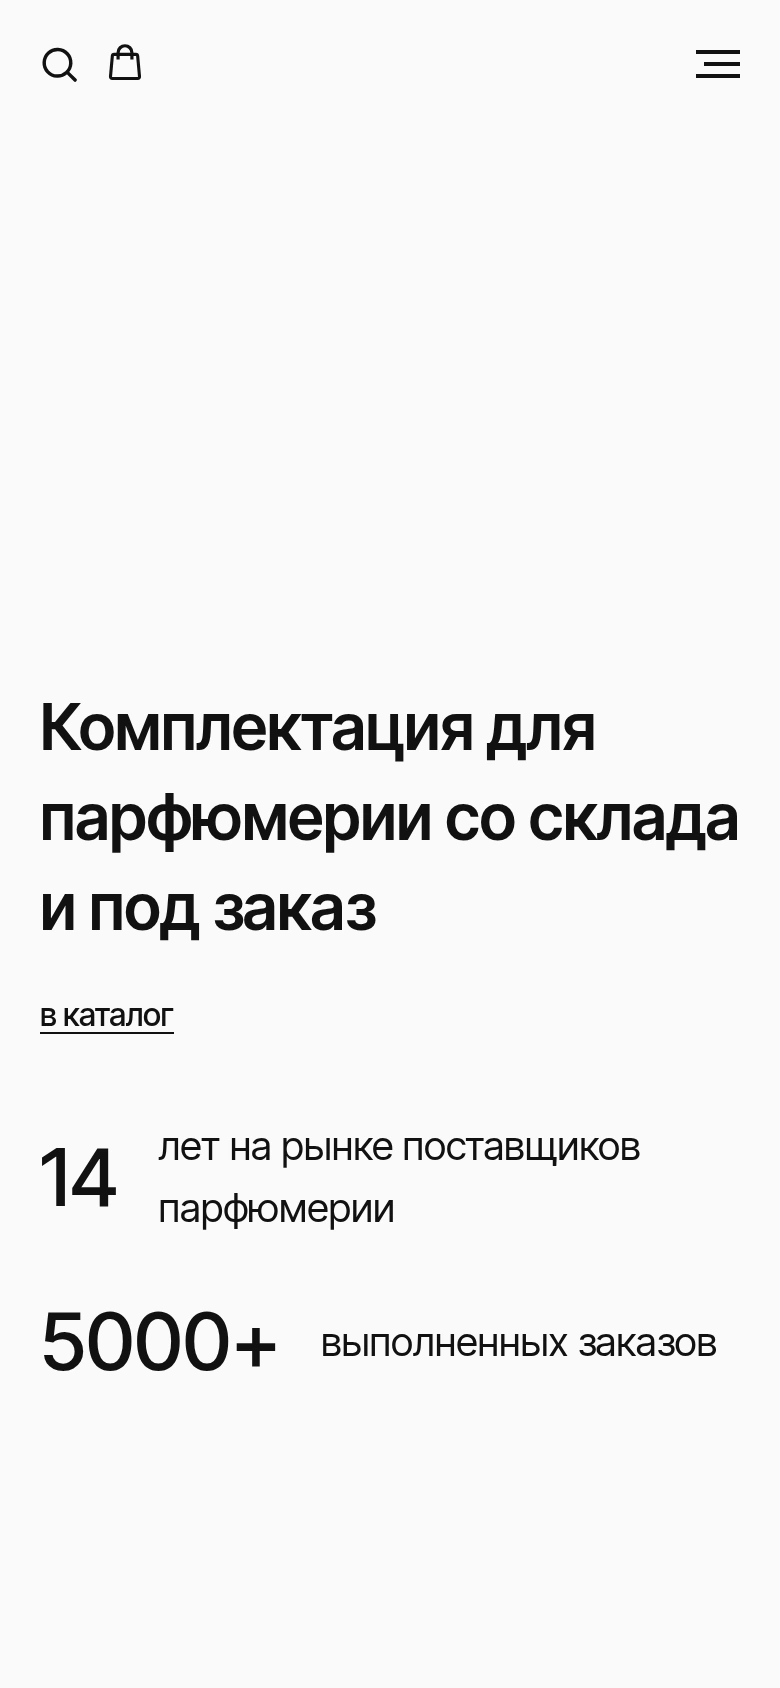
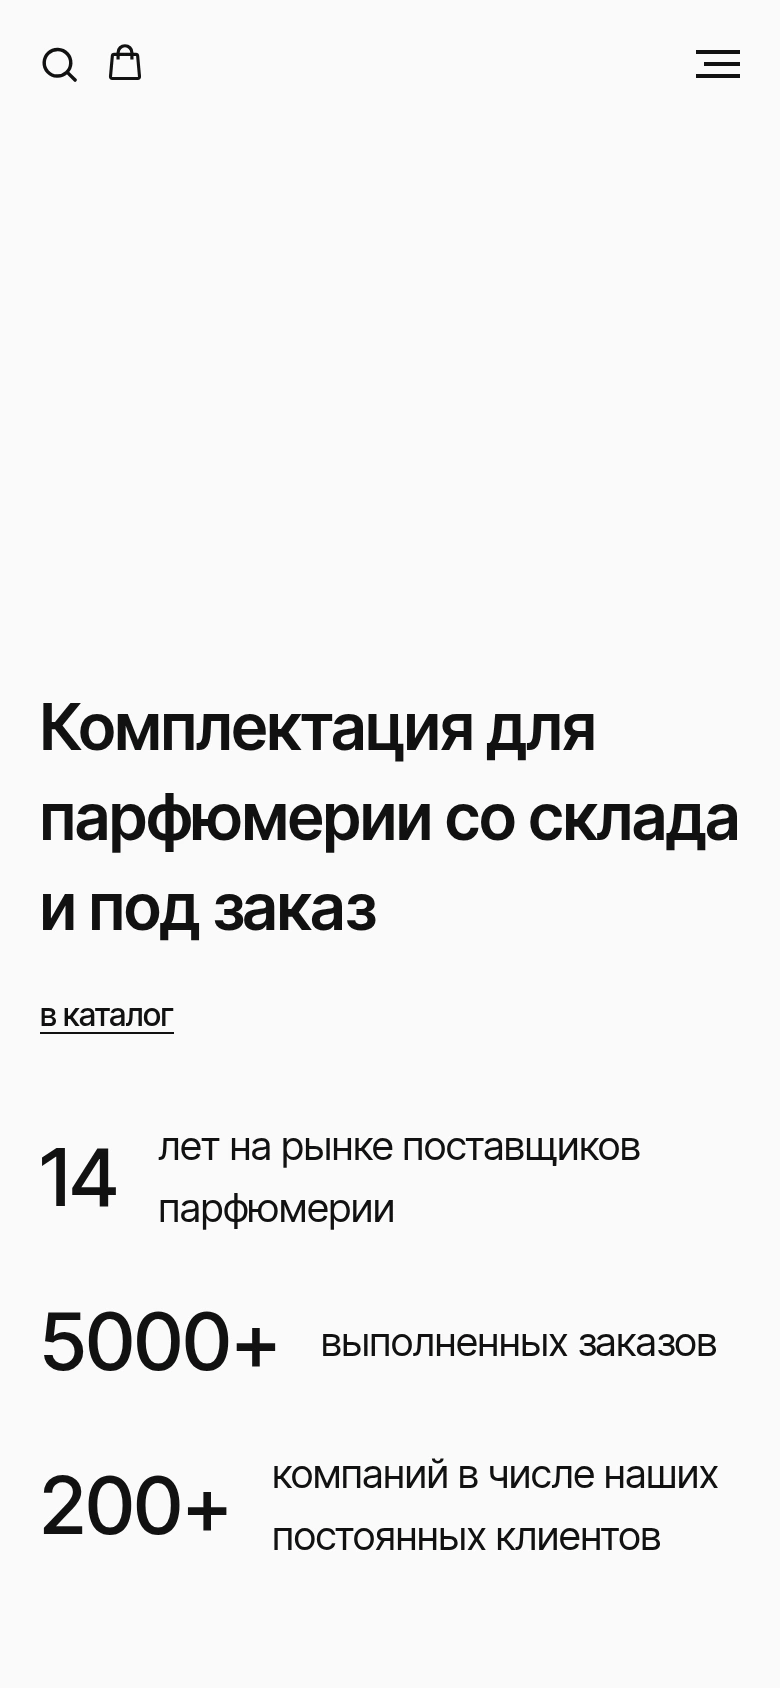
Refine project captions and fix COSMOSPRAY viewport screenshots

Changed region(s): [[0.3385, 0.8626, 0.9231, 0.9242], [0.0615, 0.8626, 0.2769, 0.9242]]

diff --git a/cosmospray.html b/cosmospray.html
@@ -21,7 +21,7 @@
       <section class="case-hero case-container" aria-labelledby="case-title">
         <div class="intro-layout">
           <div class="case-back reveal" data-reveal><a class="case-link case-link--back" href="./index.html#cases" aria-label="Вернуться к кейсам"><svg aria-hidden="true"><use href="#arrow-right" /></svg><span class="case-link-label" data-reveal-letters>Назад</span></a></div>
-          <div class="case-heading reveal" data-reveal><h1 id="case-title">ТПК КОСМОСПРЭЙ</h1><p class="case-subtitle" data-reveal-lines>Product Design / B2B / E-commerce / Design System</p></div>
+          <div class="case-heading reveal" data-reveal><h1 id="case-title">ТПК КОСМОСПРЭЙ</h1><p class="case-subtitle" data-reveal-lines>Product Design / B2B / E-commerce / Brand Identity</p></div>
           <div class="case-hero-media-slot"><figure class="case-hero-media reveal" data-reveal data-animated-media><div class="case-media" data-distort-frame><video data-distort data-distort-native-idle muted loop playsinline controls preload="metadata" poster="./cosmospray/CosmosprayMain-cursor-poster.webp" width="1600" height="1000" aria-label="Прокрутка главной страницы КОСМОСПРЭЙ"><source media="(max-width: 760px)" src="./cosmospray/CosmosprayMain-cursor-mobile-60.mp4?v=f4ab496c59" type="video/mp4" /><source src="./cosmospray/CosmosprayMain-cursor-60.mp4?v=311aed930d" type="video/mp4" /></video></div><button class="video-toggle" type="button" aria-label="Воспроизвести анимацию" data-pause-label="Приостановить анимацию" data-play-label="Воспроизвести анимацию" aria-pressed="true" hidden></button></figure></div>
         </div>
       </section>
@@ -58,7 +58,7 @@
         <section class="case-section" aria-labelledby="mobile-title">
           <div class="reveal" data-reveal><h2 id="mobile-title">Адаптивная версия</h2><p class="case-copy" data-reveal-lines>Адаптировала главную, каталог, карточку товара и контакты для мобильных устройств. Сохранила понятную иерархию и доступ к ключевым действиям: поиску комплектующих, выбору товара и связи с компанией.</p></div>
           <div class="cosmospray-mobile-grid">
-            <figure class="case-screen-item reveal" data-reveal><div class="case-media" data-distort-frame><img data-distort data-distort-detail src="./cosmospray/CosmosprayMobileHome.webp" alt="Главная страница" loading="lazy" decoding="async" width="780" height="1688" /></div><figcaption data-reveal-letters>Главная страница</figcaption></figure>
+            <figure class="case-screen-item reveal" data-reveal><div class="case-media" data-distort-frame><img data-distort data-distort-detail src="./cosmospray/CosmosprayMobileHome.webp?v=ad85eb3cb7" alt="Главная страница" loading="lazy" decoding="async" width="780" height="1688" /></div><figcaption data-reveal-letters>Главная страница</figcaption></figure>
             <figure class="case-screen-item reveal" data-reveal><div class="case-media" data-distort-frame><img data-distort data-distort-detail src="./cosmospray/CosmosprayMobileCatalog.webp" alt="Каталог" loading="lazy" decoding="async" width="780" height="1688" /></div><figcaption data-reveal-letters>Каталог</figcaption></figure>
             <figure class="case-screen-item reveal" data-reveal><div class="case-media" data-distort-frame><img data-distort data-distort-detail src="./cosmospray/CosmosprayMobileProduct.webp" alt="Карточка товара" loading="lazy" decoding="async" width="780" height="1688" /></div><figcaption data-reveal-letters>Карточка товара</figcaption></figure>
             <figure class="case-screen-item reveal" data-reveal><div class="case-media" data-distort-frame><img data-distort data-distort-detail src="./cosmospray/CosmosprayMobileContacts.webp" alt="Контакты" loading="lazy" decoding="async" width="780" height="1688" /></div><figcaption data-reveal-letters>Контакты</figcaption></figure>

diff --git a/cosmospray-en.html b/cosmospray-en.html
@@ -21,7 +21,7 @@
       <section class="case-hero case-container" aria-labelledby="case-title">
         <div class="intro-layout">
           <div class="case-back reveal" data-reveal><a class="case-link case-link--back" href="./en.html#cases" aria-label="Back to case studies"><svg aria-hidden="true"><use href="#arrow-right" /></svg><span class="case-link-label" data-reveal-letters>Back</span></a></div>
-          <div class="case-heading reveal" data-reveal><h1 id="case-title">TPK COSMOSPRAY</h1><p class="case-subtitle" data-reveal-lines>Product Design / B2B / E-commerce / Design System</p></div>
+          <div class="case-heading reveal" data-reveal><h1 id="case-title">TPK COSMOSPRAY</h1><p class="case-subtitle" data-reveal-lines>Product Design / B2B / E-commerce / Brand Identity</p></div>
           <div class="case-hero-media-slot"><figure class="case-hero-media reveal" data-reveal data-animated-media><div class="case-media" data-distort-frame><video data-distort data-distort-native-idle muted loop playsinline controls preload="metadata" poster="./cosmospray/CosmosprayMain-cursor-poster.webp" width="1600" height="1000" aria-label="Scrolling through the COSMOSPRAY homepage"><source media="(max-width: 760px)" src="./cosmospray/CosmosprayMain-cursor-mobile-60.mp4?v=f4ab496c59" type="video/mp4" /><source src="./cosmospray/CosmosprayMain-cursor-60.mp4?v=311aed930d" type="video/mp4" /></video></div><button class="video-toggle" type="button" aria-label="Play animation" data-pause-label="Pause animation" data-play-label="Play animation" aria-pressed="true" hidden></button></figure></div>
         </div>
       </section>
@@ -58,7 +58,7 @@
         <section class="case-section" aria-labelledby="mobile-title">
           <div class="reveal" data-reveal><h2 id="mobile-title">Responsive design</h2><p class="case-copy" data-reveal-lines>Adapted the homepage, catalog, product details and contacts for mobile devices. A clear hierarchy keeps the key actions accessible: finding components, choosing a product and contacting the company.</p></div>
           <div class="cosmospray-mobile-grid">
-            <figure class="case-screen-item reveal" data-reveal><div class="case-media" data-distort-frame><img data-distort data-distort-detail src="./cosmospray/CosmosprayMobileHome.webp" alt="Homepage" loading="lazy" decoding="async" width="780" height="1688" /></div><figcaption data-reveal-letters>Homepage</figcaption></figure>
+            <figure class="case-screen-item reveal" data-reveal><div class="case-media" data-distort-frame><img data-distort data-distort-detail src="./cosmospray/CosmosprayMobileHome.webp?v=ad85eb3cb7" alt="Homepage" loading="lazy" decoding="async" width="780" height="1688" /></div><figcaption data-reveal-letters>Homepage</figcaption></figure>
             <figure class="case-screen-item reveal" data-reveal><div class="case-media" data-distort-frame><img data-distort data-distort-detail src="./cosmospray/CosmosprayMobileCatalog.webp" alt="Catalog" loading="lazy" decoding="async" width="780" height="1688" /></div><figcaption data-reveal-letters>Catalog</figcaption></figure>
             <figure class="case-screen-item reveal" data-reveal><div class="case-media" data-distort-frame><img data-distort data-distort-detail src="./cosmospray/CosmosprayMobileProduct.webp" alt="Product details" loading="lazy" decoding="async" width="780" height="1688" /></div><figcaption data-reveal-letters>Product details</figcaption></figure>
             <figure class="case-screen-item reveal" data-reveal><div class="case-media" data-distort-frame><img data-distort data-distort-detail src="./cosmospray/CosmosprayMobileContacts.webp" alt="Contacts" loading="lazy" decoding="async" width="780" height="1688" /></div><figcaption data-reveal-letters>Contacts</figcaption></figure>

diff --git a/tests/portfolio.spec.js b/tests/portfolio.spec.js
@@ -147,7 +147,7 @@ test('cases reveal once and remain visible across scroll boundaries and resizing
     expect(await letter.evaluate(el => new DOMMatrix(getComputedStyle(el).transform).m42)).toBe(0);
     await page.mouse.wheel(0,1200);
     expect((await sampleMotion()).every(value => Math.abs(value)<.01)).toBe(true);
-    expect((await project.locator('.project-description .reveal-line').allTextContents()).join(' ')).toBe('Product Design / B2B / E-commerce / Design System');
+    expect((await project.locator('.project-description .reveal-line').allTextContents()).join(' ')).toBe('Product Design / B2B / E-commerce / Brand Identity');
   }
   await page.setViewportSize({width:1280,height:500});
   await page.evaluate(() => window.scrollTo({top:document.documentElement.scrollHeight,behavior:'instant'}));
@@ -216,7 +216,7 @@ test('text reveals move through masks and reflow without losing words', async ({
   // Image/font readiness and smooth scrolling can shift the reveal start.
   // Check completion separately from the captured intermediate movement.
   await expect.poll(() => headingLetter.evaluate(el => Math.abs(new DOMMatrix(getComputedStyle(el).transform).m42))).toBeLessThan(.01);
-  await expect.poll(() => page.locator('.project-description').first().locator('.reveal-line').allTextContents().then(lines => lines.join(' '))).toBe('Product Design / B2B / E-commerce / Design System');
+  await expect.poll(() => page.locator('.project-description').first().locator('.reveal-line').allTextContents().then(lines => lines.join(' '))).toBe('Product Design / B2B / E-commerce / Brand Identity');
   // Finish the cue's programmatic scroll before resizing and testing wheel input.
   await expect(page.locator('html')).not.toHaveClass(/lenis-scrolling/);
   await page.setViewportSize({ width: 840, height: 1000 });
@@ -264,7 +264,7 @@ test('long project captions wrap without clipping or duplicated subtitle lines o
   const page = await context.newPage();
   await page.goto('./');
   await page.getByRole('link', { name: 'Перейти к кейсам' }).tap();
-  const descriptions = ['Product Design / B2B / E-commerce / Design System', 'Product Design / B2B / Risk Analytics / Data-heavy UI', 'Product Design / B2C / E-commerce / Brand Identity', 'Illustration / Graphic Design / Print / Social Impact'];
+  const descriptions = ['Product Design / B2B / E-commerce / Brand Identity', 'Product Design / B2B / Dashboard', 'Product Design / B2C / E-commerce / Brand Identity', 'Illustration / Graphic Design / Social Impact'];
   const firstDescription = page.locator('.project-description').first();
   await expect.poll(() => firstDescription.locator('.reveal-line').allTextContents().then(lines => lines.join(' '))).toBe(descriptions[0]);
   expect(await firstDescription.evaluate(el =>

diff --git a/index.html b/index.html
@@ -71,14 +71,14 @@
             <a class="project-button" href="./cosmospray.html" data-project="1" aria-labelledby="project-1-title">
               <span class="project-cover"><img src="./cosmospray.png" alt="ТПК КОСМОСПРЭЙ" loading="lazy" decoding="async" /></span>
               <span class="project-title" id="project-1-title"><svg class="link-arrow" aria-hidden="true"><use href="#arrow-right" /></svg><span class="project-name">ТПК КОСМОСПРЭЙ</span></span>
-              <span class="project-description">Product Design / B2B / E-commerce / Design System</span>
+              <span class="project-description">Product Design / B2B / E-commerce / Brand Identity</span>
             </a>
           </article>
           <article class="project reveal" data-reveal id="delta">
             <a class="project-button" href="./delta.html" data-project="2" aria-labelledby="project-2-title">
               <span class="project-cover"><img src="./delta.png" alt="ДельтаБезопасность" loading="lazy" decoding="async" /></span>
               <span class="project-title" id="project-2-title"><svg class="link-arrow" aria-hidden="true"><use href="#arrow-right" /></svg><span class="project-name">ДельтаБезопасность</span></span>
-              <span class="project-description">Product Design / B2B / Risk Analytics / Data-heavy UI</span>
+              <span class="project-description">Product Design / B2B / Dashboard</span>
             </a>
           </article>
           <article class="project reveal" data-reveal id="solok">
@@ -92,7 +92,7 @@
             <a class="project-button" href="./shelter.html" data-project="4" aria-labelledby="project-4-title">
               <span class="project-cover"><img src="./dubovaya.png" alt="Приют для собак «Дубовая Роща»" loading="lazy" decoding="async" /></span>
               <span class="project-title" id="project-4-title"><svg class="link-arrow" aria-hidden="true"><use href="#arrow-right" /></svg><span class="project-name">Дубовая Роща</span></span>
-              <span class="project-description">Illustration / Graphic Design / Print / Social Impact</span>
+              <span class="project-description">Illustration / Graphic Design / Social Impact</span>
             </a>
           </article>
         </div>

diff --git a/en.html b/en.html
@@ -71,14 +71,14 @@
             <a class="project-button" href="./cosmospray-en.html" data-project="1" aria-labelledby="project-1-title">
               <span class="project-cover"><img src="./cosmospray.png" alt="TPK COSMOSPRAY" loading="lazy" decoding="async" /></span>
               <span class="project-title" id="project-1-title"><svg class="link-arrow" aria-hidden="true"><use href="#arrow-right" /></svg><span class="project-name">TPK COSMOSPRAY</span></span>
-              <span class="project-description">Product Design / B2B / E-commerce / Design System</span>
+              <span class="project-description">Product Design / B2B / E-commerce / Brand Identity</span>
             </a>
           </article>
           <article class="project reveal" data-reveal id="delta">
             <a class="project-button" href="./delta-en.html" data-project="2" aria-labelledby="project-2-title">
               <span class="project-cover"><img src="./delta.png" alt="Delta Security" loading="lazy" decoding="async" /></span>
               <span class="project-title" id="project-2-title"><svg class="link-arrow" aria-hidden="true"><use href="#arrow-right" /></svg><span class="project-name">Delta Security</span></span>
-              <span class="project-description">Product Design / B2B / Risk Analytics / Data-heavy UI</span>
+              <span class="project-description">Product Design / B2B / Dashboard</span>
             </a>
           </article>
           <article class="project reveal" data-reveal id="solok">
@@ -92,7 +92,7 @@
             <a class="project-button" href="./shelter-en.html" data-project="4" aria-labelledby="project-4-title">
               <span class="project-cover"><img src="./dubovaya.png" alt="Dubovaya Roshcha dog shelter" loading="lazy" decoding="async" /></span>
               <span class="project-title" id="project-4-title"><svg class="link-arrow" aria-hidden="true"><use href="#arrow-right" /></svg><span class="project-name">Dubovaya Roshcha</span></span>
-              <span class="project-description">Illustration / Graphic Design / Print / Social Impact</span>
+              <span class="project-description">Illustration / Graphic Design / Social Impact</span>
             </a>
           </article>
         </div>

diff --git a/src/content.js b/src/content.js
@@ -11,12 +11,12 @@ const russianContent = {
   projects: [
     {
       title: 'ТПК КОСМОСПРЭЙ',
-      description: 'Product Design / B2B / E-commerce / Design System',
+      description: 'Product Design / B2B / E-commerce / Brand Identity',
       cover: './cosmospray.png', url: './cosmospray.html',
     },
     {
       title: 'ДельтаБезопасность',
-      description: 'Product Design / B2B / Risk Analytics / Data-heavy UI',
+      description: 'Product Design / B2B / Dashboard',
       cover: './delta.png', url: './delta.html',
     },
     {
@@ -26,17 +26,17 @@ const russianContent = {
     },
     {
       title: 'Дубовая Роща',
-      description: 'Illustration / Graphic Design / Print / Social Impact',
+      description: 'Illustration / Graphic Design / Social Impact',
       cover: './dubovaya.png', url: './shelter.html',
     },
   ],
 };
 
 const englishProjects = [
-  { title: 'TPK COSMOSPRAY', description: 'Product Design / B2B / E-commerce / Design System', url: './cosmospray-en.html' },
-  { title: 'Delta Security', description: 'Product Design / B2B / Risk Analytics / Data-heavy UI', url: './delta-en.html' },
+  { title: 'TPK COSMOSPRAY', description: 'Product Design / B2B / E-commerce / Brand Identity', url: './cosmospray-en.html' },
+  { title: 'Delta Security', description: 'Product Design / B2B / Dashboard', url: './delta-en.html' },
   { title: 'Solok Cosmetics', description: 'Product Design / B2C / E-commerce / Brand Identity', url: './solok-en.html' },
-  { title: 'Dubovaya Roshcha', description: 'Illustration / Graphic Design / Print / Social Impact', url: './shelter-en.html' },
+  { title: 'Dubovaya Roshcha', description: 'Illustration / Graphic Design / Social Impact', url: './shelter-en.html' },
 ];
 
 export const content = document.documentElement.lang === 'en' ? {

diff --git a/shelter.html b/shelter.html
@@ -21,7 +21,7 @@
       <section class="case-hero case-container" aria-labelledby="case-title">
         <div class="intro-layout">
           <div class="case-back reveal" data-reveal><a class="case-link case-link--back" href="./index.html#cases" aria-label="Вернуться к кейсам"><svg aria-hidden="true"><use href="#arrow-right" /></svg><span class="case-link-label" data-reveal-letters>Назад</span></a></div>
-          <div class="case-heading reveal" data-reveal><h1 id="case-title">Дубовая Роща</h1><p class="case-subtitle" data-reveal-lines>Illustration / Graphic Design / Print / Social Impact</p></div>
+          <div class="case-heading reveal" data-reveal><h1 id="case-title">Дубовая Роща</h1><p class="case-subtitle" data-reveal-lines>Illustration / Graphic Design / Social Impact</p></div>
           <div class="case-hero-media-slot"><figure class="case-hero-media reveal" data-reveal><div class="case-media" data-distort-frame><img data-distort src="./shelter/calendar-clean.webp" alt="Настольный календарь приюта на 2025 год у новогодней ёлки" width="1920" height="1281" fetchpriority="high" decoding="async" /></div></figure></div>
         </div>
       </section>

diff --git a/shelter-en.html b/shelter-en.html
@@ -21,7 +21,7 @@
       <section class="case-hero case-container" aria-labelledby="case-title">
         <div class="intro-layout">
           <div class="case-back reveal" data-reveal><a class="case-link case-link--back" href="./en.html#cases" aria-label="Back to projects"><svg aria-hidden="true"><use href="#arrow-right" /></svg><span class="case-link-label" data-reveal-letters>Back</span></a></div>
-          <div class="case-heading reveal" data-reveal><h1 id="case-title">Dubovaya Roshcha</h1><p class="case-subtitle" data-reveal-lines>Illustration / Graphic Design / Print / Social Impact</p></div>
+          <div class="case-heading reveal" data-reveal><h1 id="case-title">Dubovaya Roshcha</h1><p class="case-subtitle" data-reveal-lines>Illustration / Graphic Design / Social Impact</p></div>
           <div class="case-hero-media-slot"><figure class="case-hero-media reveal" data-reveal><div class="case-media" data-distort-frame><img data-distort src="./shelter/calendar-clean.webp" alt="The shelter’s 2025 desk calendar beside a Christmas tree" width="1920" height="1281" fetchpriority="high" decoding="async" /></div></figure></div>
         </div>
       </section>

diff --git a/delta.html b/delta.html
@@ -25,7 +25,7 @@
           <div class="case-back reveal" data-reveal><a class="case-link case-link--back" href="./index.html#cases" aria-label="Вернуться к кейсам"><svg aria-hidden="true"><use href="#arrow-right" /></svg><span class="case-link-label" data-reveal-letters>Назад</span></a></div>
           <div class="case-heading reveal" data-reveal>
             <h1 id="case-title">ДельтаБезопасность</h1>
-            <p class="case-subtitle" data-reveal-lines>Product Design / B2B / Risk Analytics / Data-heavy UI</p>
+            <p class="case-subtitle" data-reveal-lines>Product Design / B2B / Dashboard</p>
           </div>
           <div class="case-hero-media-slot"><figure class="case-hero-media reveal" data-reveal data-animated-media>
             <div class="case-media" data-distort-frame>

diff --git a/delta-en.html b/delta-en.html
@@ -25,7 +25,7 @@
           <div class="case-back reveal" data-reveal><a class="case-link case-link--back" href="./en.html#cases" aria-label="Back to case studies"><svg aria-hidden="true"><use href="#arrow-right" /></svg><span class="case-link-label" data-reveal-letters>Back</span></a></div>
           <div class="case-heading reveal" data-reveal>
             <h1 id="case-title">Delta Security</h1>
-            <p class="case-subtitle" data-reveal-lines>Product Design / B2B / Risk Analytics / Data-heavy UI</p>
+            <p class="case-subtitle" data-reveal-lines>Product Design / B2B / Dashboard</p>
           </div>
           <div class="case-hero-media-slot"><figure class="case-hero-media reveal" data-reveal data-animated-media>
             <div class="case-media" data-distort-frame>

diff --git a/tests/cosmospray.spec.js b/tests/cosmospray.spec.js
@@ -41,7 +41,7 @@ test('case sections, comparison frames and original diagrams fit desktop and mob
     const columns=await page.locator('.case-summary').evaluate(e=>getComputedStyle(e).gridTemplateColumns.split(' ').length);
     expect(columns).toBe(width>760?3:1);
     const frames=await page.locator('.case-comparison-item .case-media').evaluateAll(es=>es.map(e=>{const r=e.getBoundingClientRect();return r.width/r.height;}));
-    for(const ratio of frames)expect(ratio).toBeCloseTo(1,2);
+    for(const ratio of frames)expect(ratio).toBeCloseTo(1440/1000,2);
   }
   for(const [selector,width,height] of [
     ['img[src="./UFCosmospray.png"]',2750,1517],

diff --git a/src/cosmospray.css b/src/cosmospray.css
@@ -2,8 +2,8 @@
 .cosmospray-page .case-screen-media .case-media { aspect-ratio: 16 / 10; }
 .cosmospray-page .case-flow-media { width: min(85%, 794px); }
 .cosmospray-page .case-system-media { aspect-ratio: 2406 / 1982; }
-/* Crop the long pages from the top in shorter, matching comparison frames. */
-.cosmospray-comparison .case-media { aspect-ratio: 1 / 1; }
+/* One desktop viewport (1440 × 1000) per before/after image. */
+.cosmospray-comparison .case-media { aspect-ratio: 1440 / 1000; }
 @media (max-width: 760px) {
   .cosmospray-page .case-pagination { flex-direction: column; }
   .cosmospray-page .case-pagination > div { max-width: 100%; }
